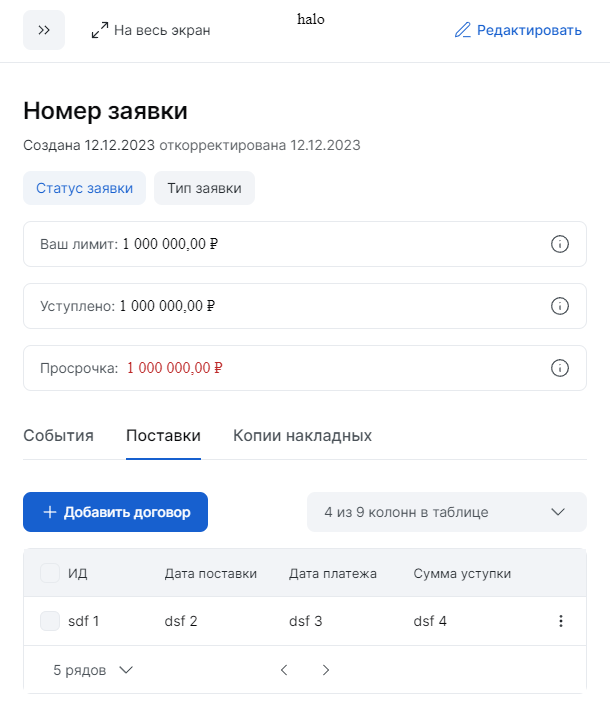
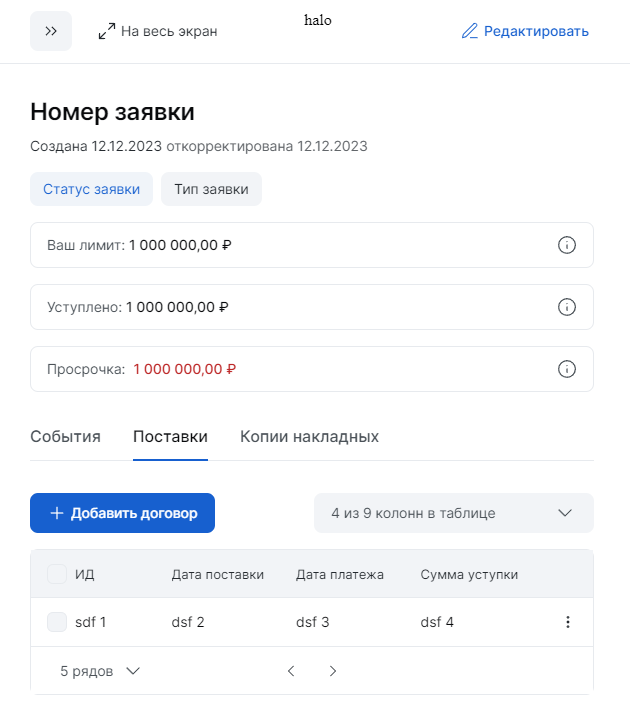
fix: cash-panel.comp font

diff --git a/src/app/shared/modules/cash-panel/cash-panel.component.html b/src/app/shared/modules/cash-panel/cash-panel.component.html
@@ -46,10 +46,10 @@
 			<span class="text text_m text_regular">
 				{{ panelTitle }}
 			</span>
-			<span class="paneldata text_medium c-bti-secondary">
+			<span class="paneldata text text_m text_medium c-bti-secondary">
 				{{ panelData | currency : 'RUB' : 'symbol-narrow' }}
 			</span>
-			<p class="alert">
+			<p class="alert text text_m text_medium">
 				<ng-content select="[alert]"></ng-content>
 			</p>
 		</div>
